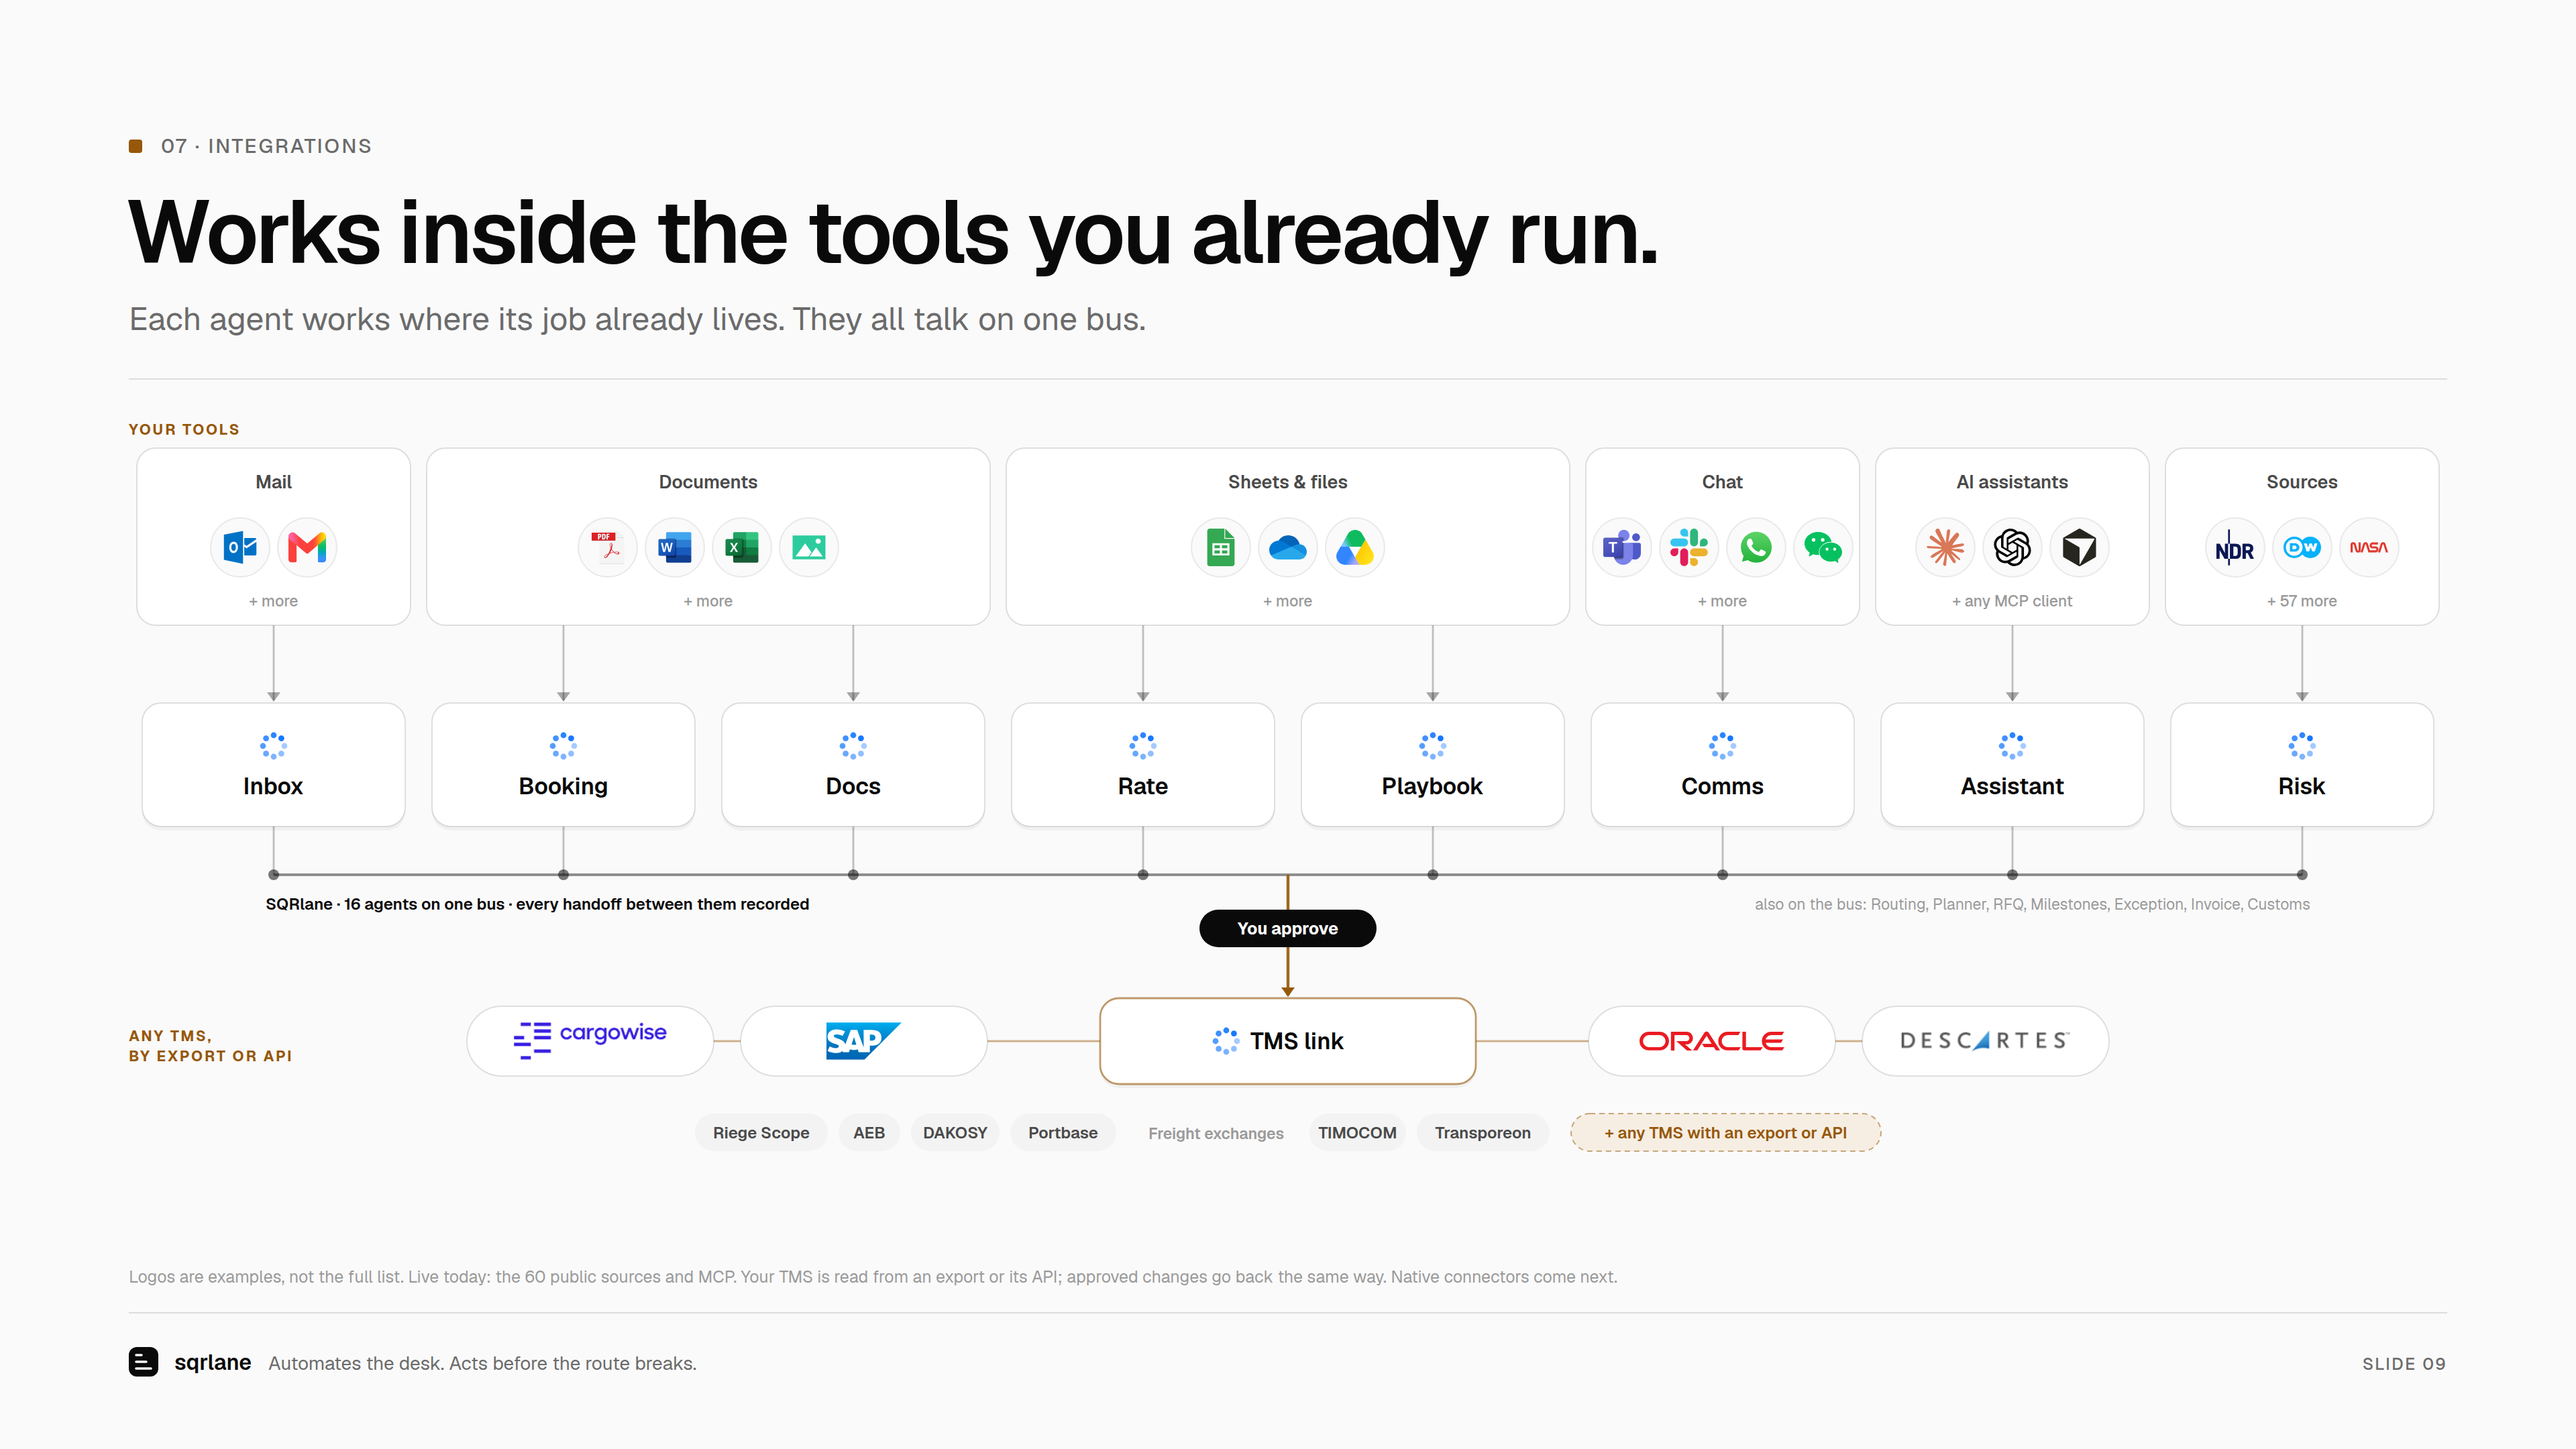
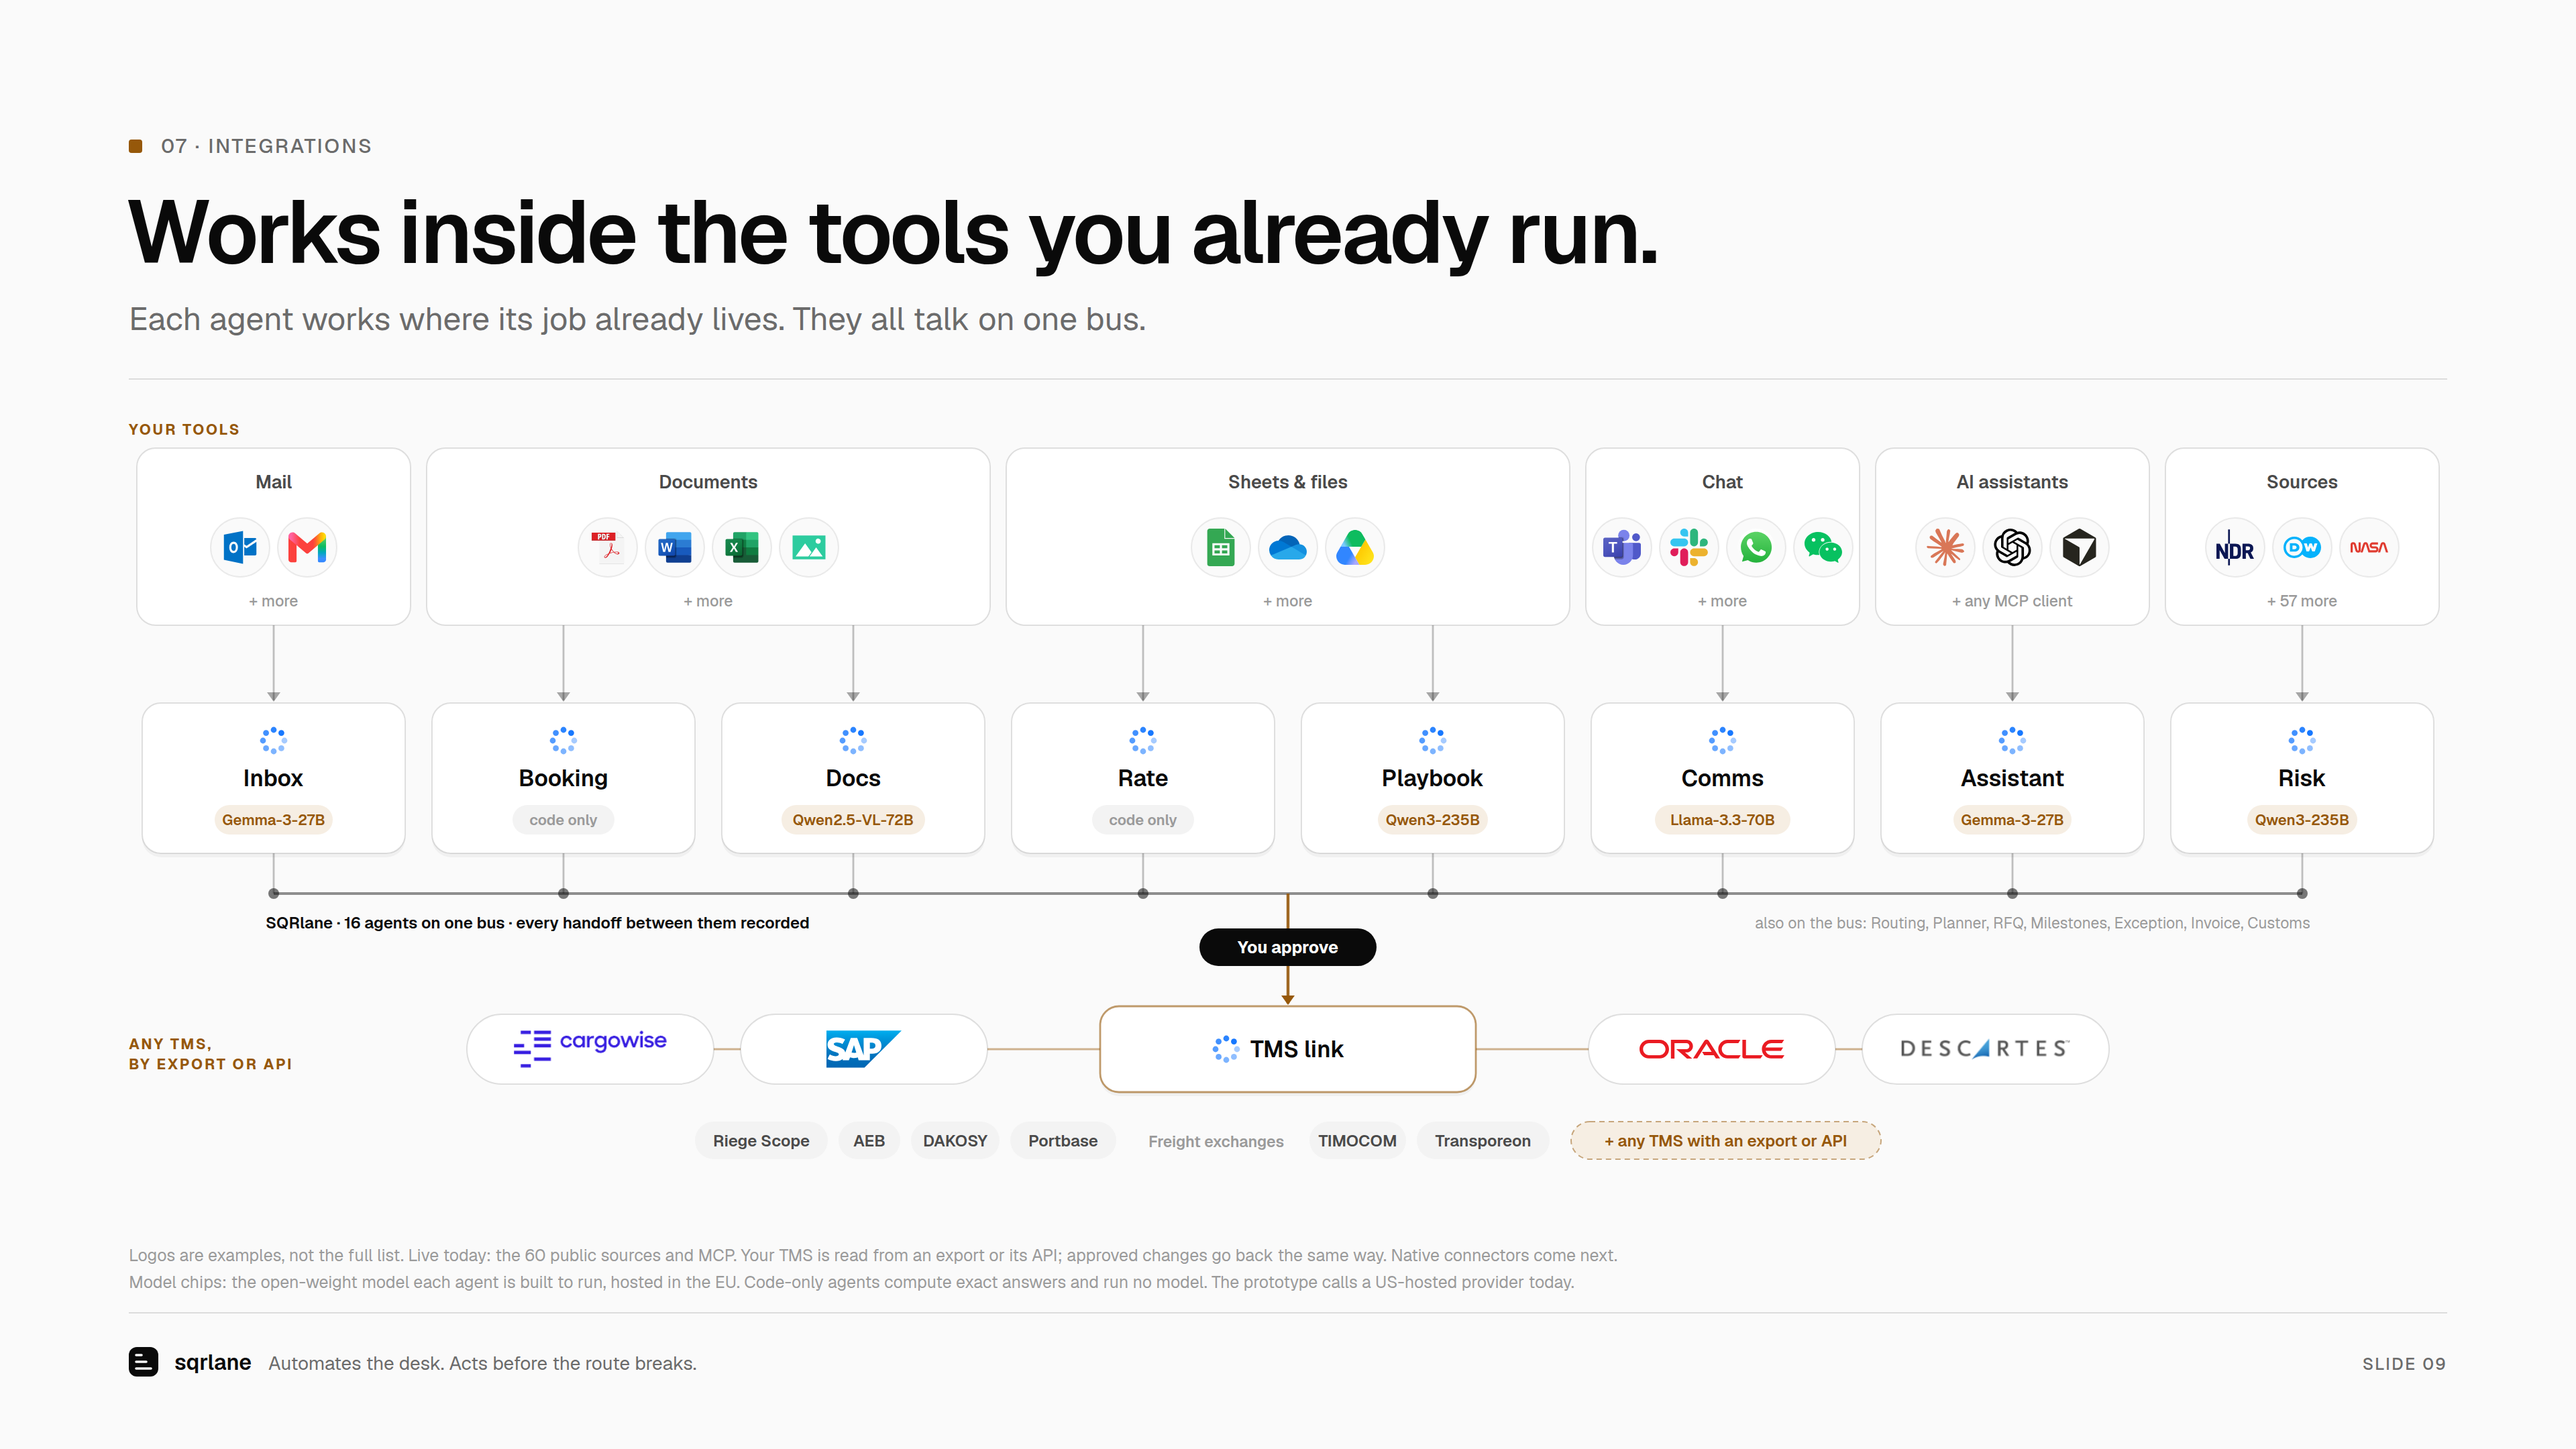
Deck v2 slide 09: model chips back inside the agent boxes, in the brown theme
Claude-Session: https://claude.ai/code/session_014BsH9ow2RbGmbV9G28PBg8

diff --git a/deck/v2/build_09.py b/deck/v2/build_09.py
@@ -63,6 +63,10 @@ def agent_mark(cx, cy, r=6, col=BLUE):
 
 # ---- the agents, in work order
 AGENTS = ["Inbox", "Booking", "Docs", "Rate", "Playbook", "Comms", "Assistant", "Risk"]
+# the open-weight model each agent is built to run, EU-hosted (whitepaper agent table)
+MODEL = {"Inbox": "Gemma-3-27B", "Booking": "code only", "Docs": "Qwen2.5-VL-72B",
+         "Rate": "code only", "Playbook": "Qwen3-235B", "Comms": "Llama-3.3-70B",
+         "Assistant": "Gemma-3-27B", "Risk": "Qwen3-235B"}
 # ---- the tools, grouped by type, each over the agents that use it (first slot, span, more)
 GROUPS = [("Mail", ["Outlook", "Gmail"], 0, 1, "+ more"),
           ("Documents", ["PDF", "Word", "Excel", "Image"], 1, 2, "+ more"),
@@ -99,7 +103,7 @@ for name, tools, first, span, more in GROUPS:
 s.end()
 
 # ============================================================ middle: the agents
-AY, AH = 524, 92
+AY, AH = 524, 112
 s.g("drops")                                    # work flows down from each group to its agents
 for name, tools, first, span, more in GROUPS:
     for i in range(first, first + span):
@@ -111,12 +115,16 @@ for i, name in enumerate(AGENTS):
     w = SLOT - 20; x0 = sx(i) - w / 2
     s.R(x0, AY + 3, w, AH, INK, 14, ' fill-opacity="0.04"')
     s.R(x0, AY, w, AH, CARD, 14, f' stroke="{INK}" stroke-opacity="0.12"')
-    agent_mark(sx(i), AY + 32, 8)
-    s.T(sx(i), AY + 68, name, 17, 600, anchor="middle")
+    agent_mark(sx(i), AY + 28, 8)
+    s.T(sx(i), AY + 62, name, 17, 600, anchor="middle")
+    mdl = MODEL[name]; code = mdl == "code only"
+    mw = round(len(mdl) * 6.2 + 20)
+    s.R(sx(i) - mw / 2, AY + 76, mw, 22, GREY_BG if code else AMB_BG, 11)
+    s.T(sx(i), AY + 91, mdl, 11, 600, GREY if code else AMB, anchor="middle")
 s.end()
 
 # the bus: every agent on one line
-BUS = AY + AH + 36
+BUS = AY + AH + 30
 s.g("bus")
 for i in range(len(AGENTS)):
     s.line(sx(i), AY + AH, sx(i), BUS, INK, 0.25, 1.4)
@@ -129,7 +137,7 @@ s.T(sx(len(AGENTS) - 1) + 6, BUS + 26, "also on the bus: Routing, Planner, RFQ, 
 s.end()
 
 # ============================================================ bottom: any TMS, behind your approval
-TY = BUS + 92
+TY = BUS + 84
 s.g("your-approval")
 s.line(W / 2, BUS, W / 2, TY - 2, AMB, 0.9, 2.2)
 arrow_down(W / 2, TY - 1, AMB, 1)
@@ -179,8 +187,10 @@ for txt, kind in items:
 s.end()
 
 s.g("disclosure")
-s.T(M, 956, "Logos are examples, not the full list. Live today: the 60 public sources and MCP. Your TMS is read from an "
+s.T(M, 940, "Logos are examples, not the full list. Live today: the 60 public sources and MCP. Your TMS is read from an "
     "export or its API; approved changes go back the same way. Native connectors come next.", 12.5, 400, GREY)
+s.T(M, 960, "Model chips: the open-weight model each agent is built to run, hosted in the EU. Code-only agents compute exact "
+    "answers and run no model. The prototype calls a US-hosted provider today.", 12.5, 400, GREY)
 s.end()
 
 s.footer(9)
